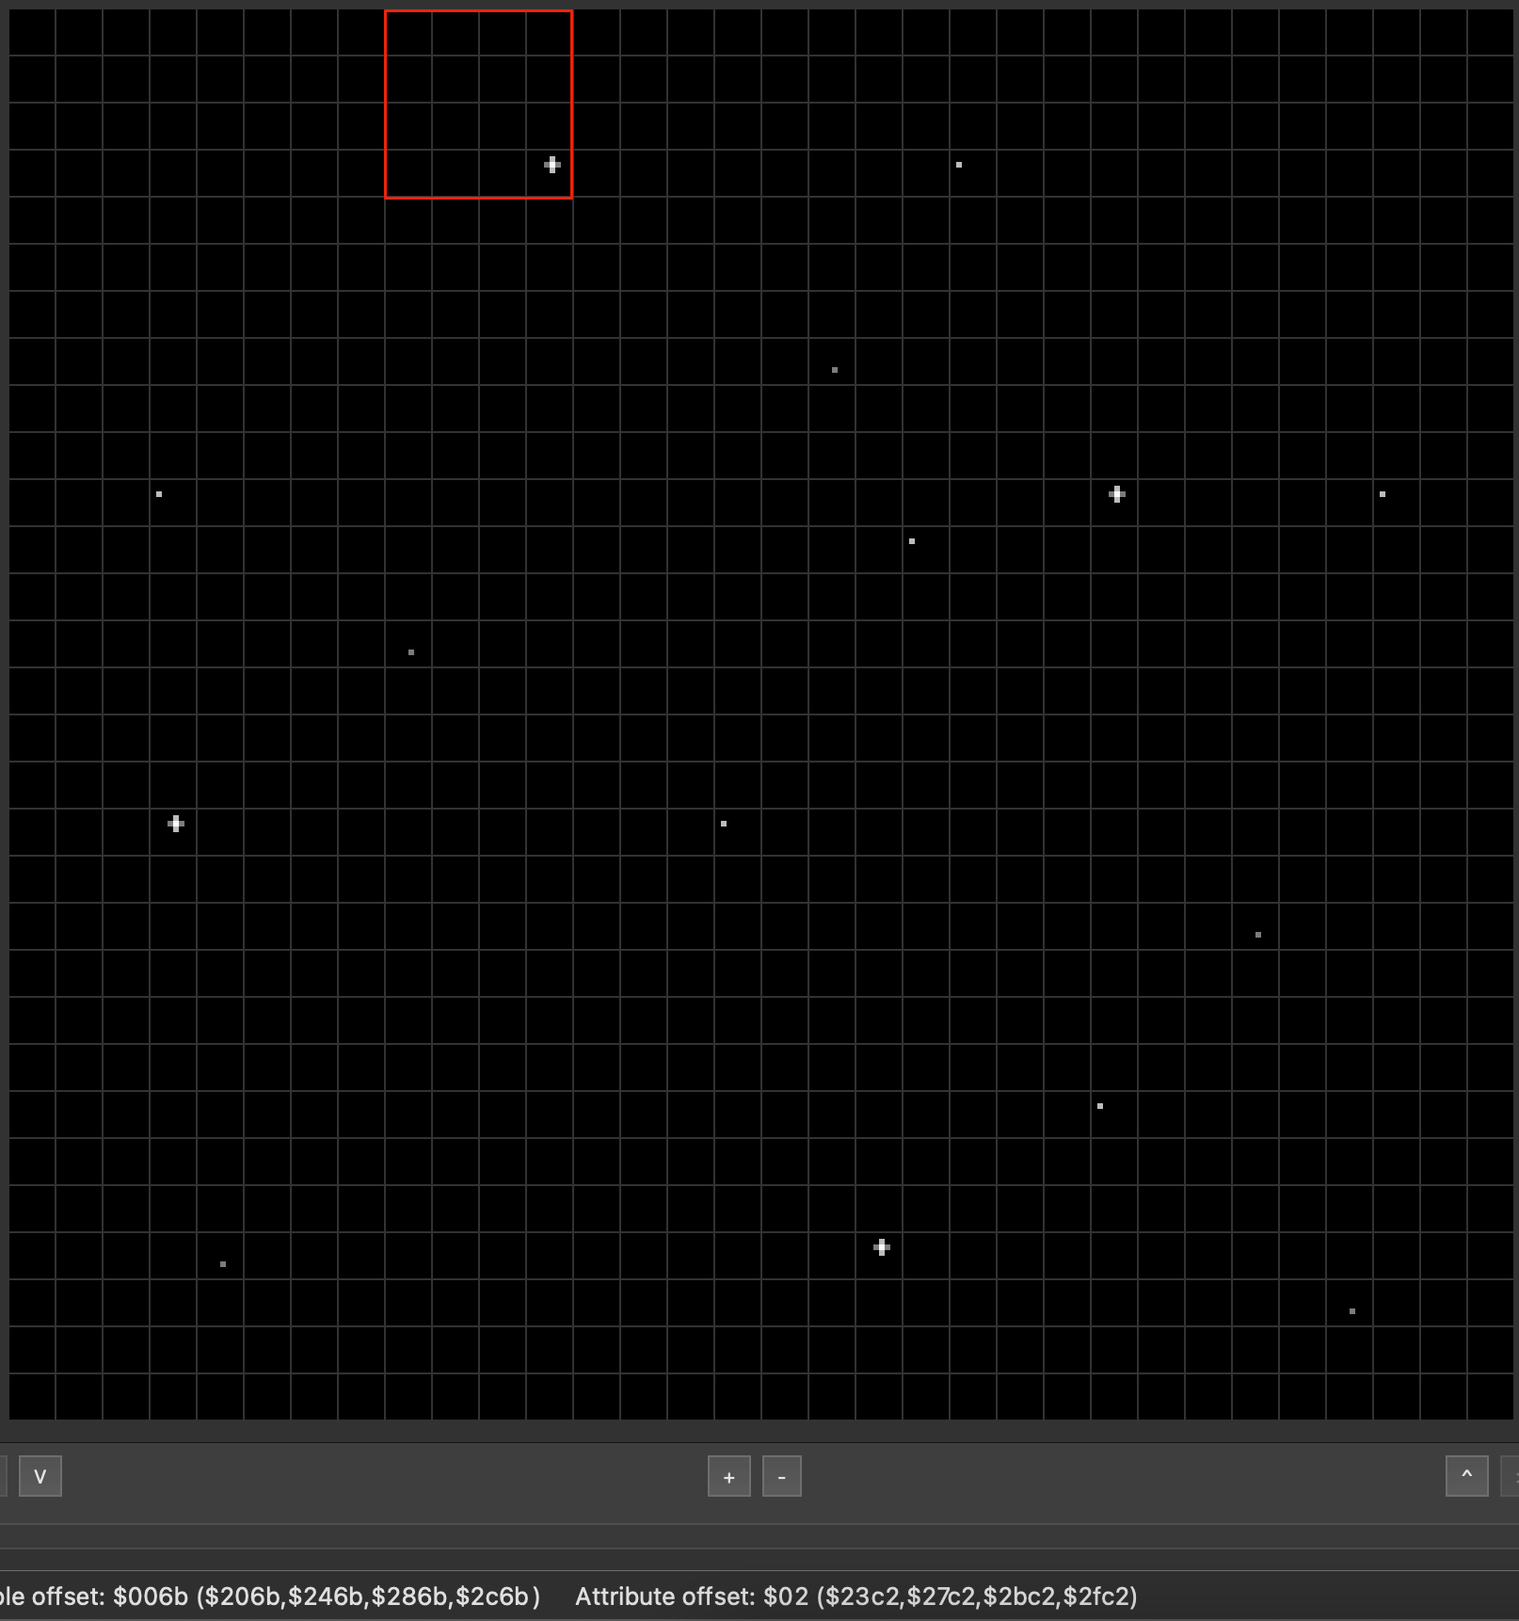
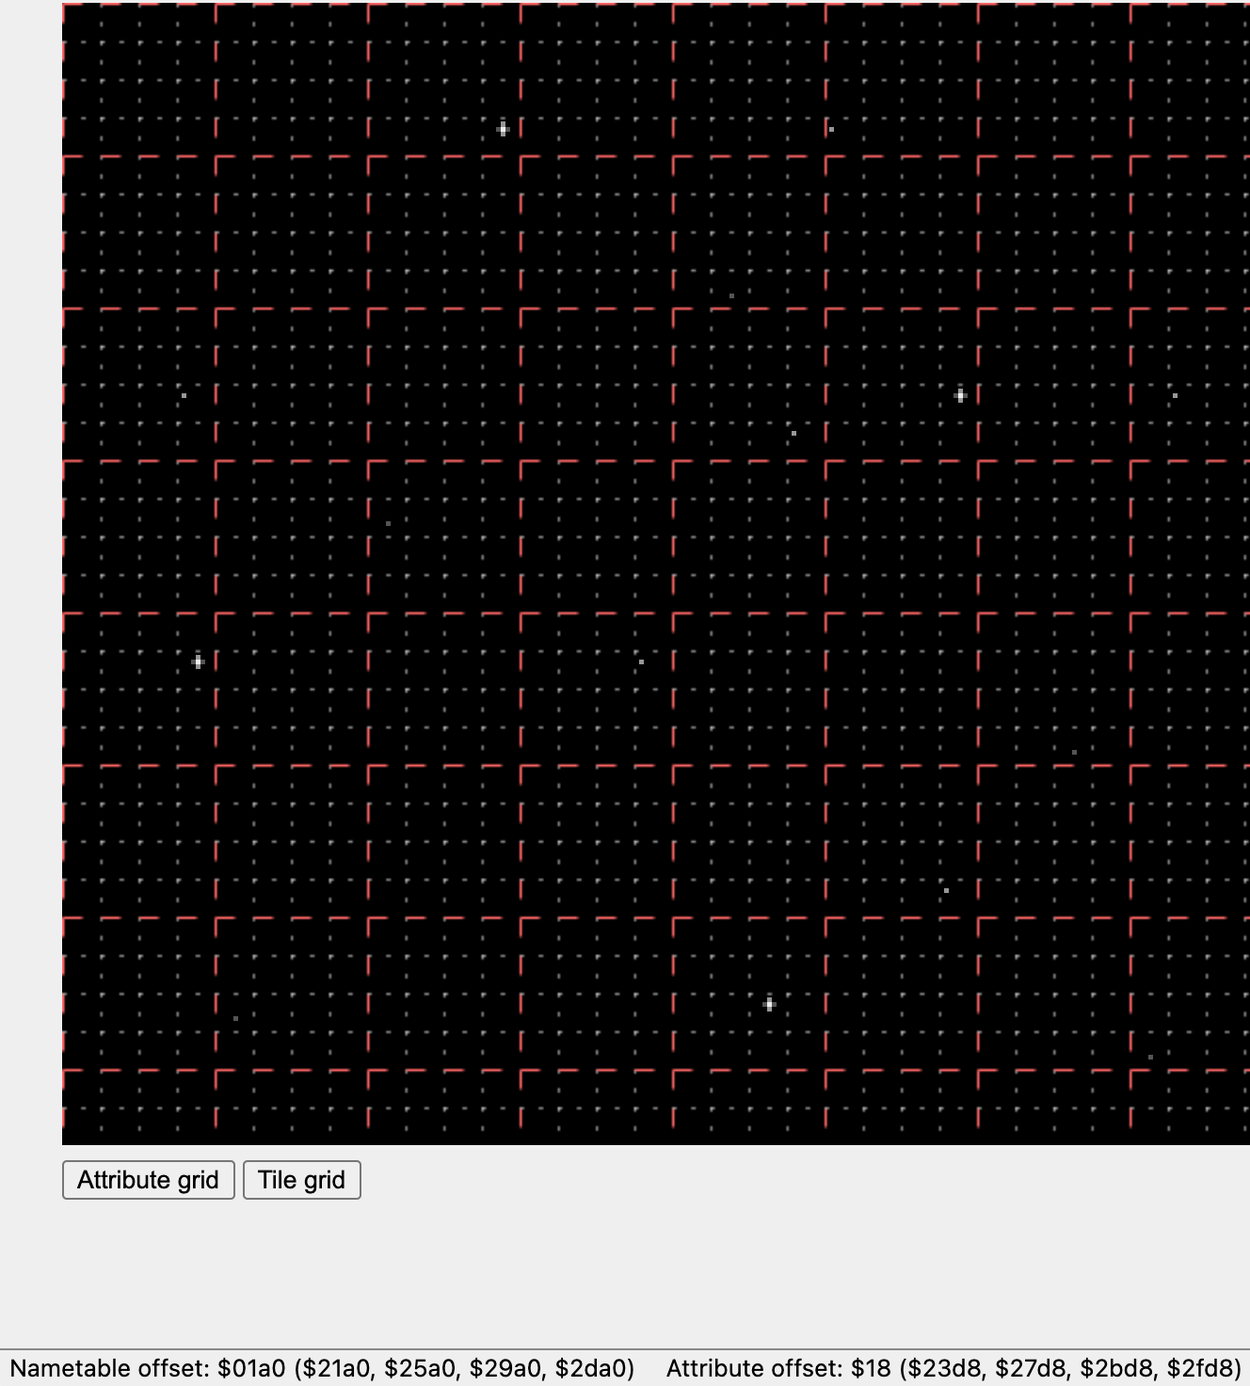
Update everything to NES Lightbox

diff --git a/chapters/13-backgroundgraphics.html b/chapters/13-backgroundgraphics.html
@@ -60,7 +60,7 @@
             background tiles. There are tiles for numbers and letters (to allow
             us to display text to the player), solid-colored squares of each of
             the four palette colors, and a few "starfield" tiles. You can view
-            (and edit) these tiles in NESTool. Our long-term goal is going to be
+            (and edit) these tiles in NES Lightbox. Our long-term goal is going to be
             the creation of a vertically-scrolling shooter game in the style of
             <i>Star Soldier</i>.
             <label for="star-soldier" class="margin-toggle">&#8853;</label>
@@ -90,41 +90,38 @@
             First, let's figure out where to put our new tiles in the nametable. We only
             need to write to nametable addresses where we intend to place a tile &mdash;
             everywhere else, the default background color from our palettes will be used.
-            In NESTool, click a tile from the right side of the screen, then click anywhere
-            in the large area on the left to "draw" with the tile. Here is the example
-            background that we will use:
+            In NES Lightbox, click a tile from the right side of the screen, then click
+            anywhere in the large area on the left to "draw" with the tile. Here is the
+            example background that we will use:
           </p>
 
           <figure>
             <img src="/img/starbackground.png" />
-            <figcaption>Placing background tiles in NESTool.</figcaption>
+            <figcaption>Placing background tiles in NES Lightbox.</figcaption>
           </figure>
 
           <p>
             Once you have an arrangement that you like, you can save what you have so
-            far to a <code>.nam</code> file. From NESTool's menus, select Nametable &rarr;
-            Save NameTable As..., then choose a filename and a location to save the file.
-            NESTool will create two files, a <code>.nam</code> file (the background
-            arrangement, in a binary format that NESTool can load from) and a
-            <code>.h</code> file (a C header file, which you can safely delete). To
-            reload your background later for editing, open NESTool and select Nametable &rarr;
-            Open NameTable..., and select the <code>.nam</code> file you saved earlier.
+            far to a <code>.nam</code> file. From NES Lightbox's menus, select Nametables &rarr;
+            Save Nametable As..., then choose a filename and a location to save the file.
+            To reload your background later for editing, open NES Lightbox and select Nametables &rarr;
+            Open Nametable..., and select the <code>.nam</code> file you saved earlier.
           </p>
 
           <p>
             When you hover over any tile in the large left pane, the status bar at the bottom
-            of NESTool shows you useful information for writing nametables and attribute tables.
+            of NES Lightbox shows you useful information for writing nametables and attribute tables.
             As discussed in <a href="/chapters/09-theppu.html">Chapter 9</a>, the NES has four
             nametables, the first of which starts at PPU memory address <code>$2000</code>.
-            The bottom status bar of NESTool shows the "nametable offset" and "attribute offset"
-            for each tile position &mdash; that is, how many tiles beyond the start of the
+            The bottom status bar of NES Lightbox shows the "nametable offset" and "attribute offset"
+            for each tile position &mdash; that is, how many bytes beyond the start of the
             nametable or attribute table it is. To make things easier, it also shows the address
             of the tile location in each nametable and attribute table.
           </p>
 
           <figure>
-            <img src="/img/nestoolstatusbar.png" />
-            <figcaption>The bottom status bar of NESTool, displaying nametable and
+            <img src="/img/neslightbox-statusbar.png" />
+            <figcaption>The bottom status bar of NES Lightbox, displaying nametable and
             attribute table offsets and the corresponding PPU memory locations for
             that offset in each of the four nametables and attribute tables.</figcaption>
           </figure>
@@ -133,7 +130,7 @@
             We can use this information to fill out our nametable. As you might remember,
             the nametable is just a series of tile numbers; palette selection occurs
             in the attribute table. To create the nametable, we need to write the appropriate
-            tile number to each nametable address as displayed in NESTool. Let's start with
+            tile number to each nametable address as displayed in NES Lightbox. Let's start with
             the "large" star tile (tile number <code>$2f</code>, as you can see by
             hovering over the tile in the right-side "Tileset" window and looking at the
             status bar at the bottom of the application window). From hovering over
@@ -194,20 +191,19 @@
             tile in the left-side nametable display and note the "Attribute offset"
             for the tile. Next, we need to figure out which 2x2 area of tiles
             (top left, top right, bottom left, or bottom right) the tile we want
-            to change is part of. Unfortunately, this is currently only possible
-            within NESTool by hovering over adjacent tiles to find the boundaries
-            of a given attribute offset. With these two pieces of information,
-            we can construct the appropriate byte to write into the attribute
-            table at that offset.
+            to change is part of. To help with finding the boundaries of an
+            attribute table byte, click "Attribute grid" at the bottom of the
+            nametable display. This will overlay a red dashed-line grid
+            that shows the boundaries of each 4x4 tile attribute table byte's
+            coverage area.
           </p>
 
           <p>
             As an example, let's change the palette used to draw the first
             "large star" in the nametable. By hovering over it in the nametable
-            viewer, we can find the attribute offset (<code>$02</code>) as well
-            as where within the 4x4 set of tiles our chosen tile is located
-            (the bottom-right 2x2 area &mdash; the full 4x4 area for this
-            attribute offset is highlighted below in red).
+            viewer, we can find the attribute offset (<code>$02</code>), and by
+            looking at the attribute grid overlay we can see where within the 4x4
+            set of tiles our chosen tile is located (here, the bottom-right 2x2 area).
           </p>
 
           <figure>
@@ -257,6 +253,11 @@
             second palette. In this case, the background tiles we are setting are relatively
             far apart, but if your backgrounds are more "busy" you will need to think
             carefully about where to change from one background palette to another.
+            When you select a palette (by clicking any color within the palette)
+            before placing a tile in the nametable display, NES Lightbox will update
+            the underlying attribute table and update all tiles in the affected
+            2x2 area to use the new palette, which can help you identify potential
+            attribute table clashes.
           </p>
 
           <h2>Additional Changes</h2>
@@ -334,10 +335,43 @@ clear_oam:
             (16 values) instead of <code>CPX #$04</code>.
           </p>
 
+          <h2>Using NES Lightbox Projects</h2>
+
+          <p>
+            Before we move on to this chapter's homework, let's look at the
+            "Project" functionality of NES Lightbox. A "project" is a list of
+            files that make up a working environment (tileset, palettes, nametable)
+            and the currently-selected tileset bank. The project file uses
+            full paths to each file, which means that project files are
+            unfortunately not portable between different computers.
+          </p>
+
+          <p>
+            To create a project file, select Project &rarr; Save Project As...
+            from NES Lightbox's menus. Choose a name for the project file
+            and click "OK". Any files that you had previously opened will
+            be saved as part of the project file. Any tileset, palette set,
+            or nametable that had not previously been saved will be saved
+            with the name of the project. If your project is named "starfield.nesproj",
+            a nametable that had not previously been saved would be saved
+            as "starfield.nam". Once you have saved (or loaded) a project,
+            you can select Project &rarr; Save All Project Files to save
+            the project's .chr, .nam, and .pal files with the current data
+            in the application.
+          </p>
+
+          <p>
+            To restore your work environment later, select Project &rarr; Open
+            Project... and select the .nesproj file you saved earlier.
+            If any of the project's files have changed location on disk, you
+            can edit the .nesproj file with any text editor - it is simply
+            a JSON file that contains the path to each file.
+          </p>
+
           <h2>Homework</h2>
 
           <p>
-            To help you get started, here is
+            To help you get started, download
             <a href="/projects/13-backgroundgraphics.zip">all of the code from this chapter</a>.
             Here is what our project looks like so far running in an emulator:
           </p>
@@ -346,10 +380,10 @@ clear_oam:
 
           <p>
             For homework, add a new tile to the background pattern table
-            ("Bank B" in NESTool), use the new tile in a nametable,
+            ("Bank B" in NES Lightbox), use the new tile in a nametable,
             and update the attribute table for the new tile to use
             more than one palette. You can use the <code>.nam</code>
-            file provided to get your NESTool environment set up quickly.
+            file provided to get your NES Lightbox environment set up quickly.
             Be sure to save your modified <code>.chr</code> file and
             to re-build all .asm files each time you make changes.
           </p>

diff --git a/chapters/10-spritegraphics.html b/chapters/10-spritegraphics.html
@@ -326,20 +326,20 @@ OAMDMA    = $4014</code></pre>
             is where NESTool comes in handy.
           </p>
 
-          <h2>Using NESTool</h2>
+          <h2>Using NES Lightbox</h2>
 
           <p>
-            Open NESTool. You should see a screen similar to this:
+            Open NES Lightbox. You should see a screen similar to this:
           </p>
 
           <figure>
-            <img src="/img/nestool.png">
-            <figcaption>The main screen of NESTool.</figcaption>
+            <img src="/img/neslightbox-empty.png">
+            <figcaption>The main screen of NES Lightbox.</figcaption>
           </figure>
 
           <p>
             Before we dive into creating sprites, let's take a quick tour of how
-            NESTool is organized. The large area on the left half
+            NES Lightbox is organized. The large area on the left half
             of the screen is a sort of canvas that can be used to draw
             backgrounds using tiles from a pattern table. We will not use this
             area until we start discussing background graphics. The right
@@ -348,7 +348,7 @@ OAMDMA    = $4014</code></pre>
           </p>
 
           <figure>
-            <img src="/img/nestool-tileset.png">
+            <img src="/img/neslightbox-tileset.png">
             <figcaption>The "Tileset" area.</figcaption>
           </figure>
 
@@ -358,44 +358,32 @@ OAMDMA    = $4014</code></pre>
             "Bank A / Bank B". As mentioned before, generally one pattern table
             is used for sprites, and the other is used for backgrounds. The A/B
             switch lets you flip between the two pattern tables.
-            <label for="pattern-table-corruption" class="margin-toggle">&#8853;</label>
-            <input type="checkbox" id="pattern-table-corruption" class="margin-toggle">
-            <span class="marginnote">
-              When opening a brand-new project, NESTool has a known issue where
-              switching between banks A and B can cause corruption of the pattern
-              tables (random data). I have never seen this issue when opening
-              an existing (even blank!) CHR file. Until this issue is resolved,
-              I recommend always using an existing CHR file.
-            </span>
             There is also a "Grid" button, which will turn on and off a grid
             showing the boundaries of each tile in the pattern table.
+            The "Edit" button will open a separate tile editor window once
+            you select a tile in the tileset display.
           </p>
 
           <figure>
-            <img src="/img/nestool-palettes.png">
+            <img src="/img/neslightbox-palettes.png">
             <figcaption>The "Palettes" area.</figcaption>
           </figure>
 
           <p>
             The "Palettes" area lets you preview how different palette choices will
-            affect your tiles. There are four palettes in a row. Clicking any color
+            affect your tiles. There are four numbered palettes. Clicking any color
             will change the display of the sprites in the pattern table to the
             palette that color is part of. You can change a color by clicking
-            a color in a palette twice, then choosing a color from the popup.
+            a color in a palette, then choosing a color from the display of all
+            possible colors at the bottom of this section.
             Hovering over any color in the pop-up will display the hexadecimal
-            value the NES uses for that color, as well as the six hex digit
-            RGB value of the color (for use in CSS, graphics programs, etc.).
+            value the NES uses for that color, to use in your code.
           </p>
 
-          <figure>
-            <img src="/img/nestool-palettes-detail.png">
-            <figcaption>Color selection pop-up.</figcaption>
-          </figure>
-
           <p>
-            Changing the first color in the palettes area will change the background
-            color of the large canvas area as well as the background of the pattern
-            table display.
+            Changing the first color of any palette in the palettes area will change
+            the background color of the large canvas area as well as the background
+            of the pattern table display.
           </p>
 
           <h3>Making Your Own Tiles</h3>
@@ -404,18 +392,18 @@ OAMDMA    = $4014</code></pre>
             To help you get started, I have created a starter .chr file that features
             some basic sprites and a full font in the background table. Download
             <a href="/projects/10-spritegraphics/src/graphics.chr">graphics.chr</a>
-            and open it in NESTool ("Tileset" &rarr; "Open CHR..." &rarr; select graphics.chr).
+            and open it in NES Lightbox ("Tilesets" &rarr; "Open CHR..." &rarr; select graphics.chr).
           </p>
 
           <p>
-            To edit or create tiles, double-click on the space in the pattern table
-            display for the tile you wish to alter. This will open a separate
-            tile-editing window.
+            To edit or create tiles, click on the space in the pattern table
+            display for the tile you wish to alter, then click the "Edit" button. This will
+            open a separate tile-editing window.
           </p>
 
           <figure>
-            <img src="/img/nestool-tileeditor.png">
-            <figcaption>NESTool's "Edit Tile" window.</figcaption>
+            <img src="/img/neslightbox-editor.png">
+            <figcaption>NES Lightbox's "Edit Tile" window.</figcaption>
           </figure>
 
           <p>
@@ -430,8 +418,11 @@ OAMDMA    = $4014</code></pre>
               for testing out what your tiles will look like in the palettes used
               by your game.
             </span>
+            The "Grid" button will turn on a dotted-line grid that makes it easier
+            to see where each individual pixel of the tile is. The rotate and flip
+            buttons allow you to easily make large-scale edits.
             Once you have created a set of tiles to work with, save your work by choosing
-            "Tileset" &rarr; "Save CHR".
+            "Tileset" &rarr; "Save CHR As...".
           </p>
 
           <h2>Displaying Sprites In Your Game</h2>

diff --git a/chapters/03-gettingstarted.html b/chapters/03-gettingstarted.html
@@ -62,7 +62,7 @@
             <li>A text editor (your choice)</li>
             <li>An assembler/linker (ca65 and ld65)</li>
             <li>An emulator (Nintaco)</li>
-            <li>A graphics tool that can read/save NES formatted images (NESTool)</li>
+            <li>A graphics tool that can read/save NES formatted images (NES Lightbox)</li>
             <li>A music composition tool (FamiStudio)</li>
           </ul>
 
@@ -155,34 +155,34 @@ make</pre>
             The NES stores graphics in a very different format from common image types like JPEG or PNG. We
             will need a program that can work with NES images. There are plugins for large graphics
             packages like Photoshop or GIMP, but I like using a smaller, purpose-built tool for this.
-            For this book, we will be using <a href="https://github.com/jpwhiting/nestool">NESTool</a>,
-            a cross-platform version of
+            For this book, we will be using <a href="https://famicom.party/neslightbox">NES Lightbox</a>,
+            a cross-platform derivative of
             <a href="https://shiru.untergrund.net/software.shtml">NES Screen Tool</a>.
             <label for="nes-tool" class="margin-toggle">&#8853;</label>
             <input id="nes-tool" type="checkbox" class="margin-toggle">
             <span class="marginnote">
-              <img src="/img/nestool.png"><br>
-              NESTool.
+              <img src="/img/neslightbox.png"><br>
+              NES Lightbox.
             </span>
           </p>
           <h3>Windows</h3>
           <p>
-            Download a <a href="https://bit.ly/nestool-win">pre-built Windows binary</a> (for 64-bit
-            systems). Alternatively, you can <a href="https://github.com/jpwhiting/nestool">download</a>
-            the source code and build it yourself; it is a standard Qt application and does
-            not require any other dependencies.
+            Download the <a href="https://famicom.party/neslightbox/releases/1.0.0/NES%20Lightbox%20Setup%201.0.0.exe">Windows installer</a>
+            (for 64-bit systems). Double-click "NES Lightbox Setup 1.0.0.exe" to install it.
           </p>
           <h3>Mac</h3>
           <p>
-            Download a <a href="https://bit.ly/nestool-macos">pre-built Mac OS binary</a>. Double-click
-            the .dmg file to open it and drag the NESTool app to your Applications folder. You will
+            Download the <a href="https://famicom.party/neslightbox/releases/1.0.0/NES%20Lightbox-1.0.0.dmg">Mac DMG</a>.
+            Double-click the .dmg file to open it and drag the NES Lightbox app to your Applications folder. You will
             need to right-click the application and choose "Open" the first time you try to
             run the program, since it is not "notarized" by Apple.
           </p>
           <h3>Linux</h3>
           <p>
-            Download the <a href="https://github.com/jpwhiting/nestool">source code</a> and build
-            it as a standard Qt application.
+            On Ubuntu systems, you can download the <a href="https://famicom.party/neslightbox/releases/1.0.0/neslightbox_1.0.0_amd64.snap">Snap file</a>,
+            which is a self-contained application package. For other Linux distributions (or if you prefer AppImage), download the
+            <a href="https://famicom.party/neslightbox/releases/1.0.0/NES%20Lightbox-1.0.0.AppImage">AppImage file</a>. You will
+            need to mark the AppImage file as executable before running it.
           </p>
 
           <h2>Music Composition Tools</h2>
@@ -198,18 +198,9 @@ make</pre>
               FamiStudio.
             </span>
           </p>
-          <h3>Windows / Mac</h3>
+          <h3>Windows / Mac / Linux</h3>
           <p>
-            Download the <a href="https://github.com/BleuBleu/FamiStudio/releases">latest release from GitHub</a>.
-          </p>
-          <h3>Linux</h3>
-          <p>
-            Unfortunately, FamiStudio is not yet fully functional on Linux. While I am hopeful
-            that this situation will change in the near future, in the meantime, Linux users
-            can download <a href="http://www.famitracker.com/">FamiTracker 0.4.6</a> and run it via WINE.
-            FamiTracker will not be covered in this book, but there are several excellent
-            <a href="https://www.youtube.com/watch?v=UbGfosQHfm0">tutorials</a> available, and
-            FamiTracker output can be easily converted into a format suitable for the FamiTone2 library.
+            Download the latest release from the <a href="https://famistudio.org">FamiStudio website</a>.
           </p>
 
           <hr>
